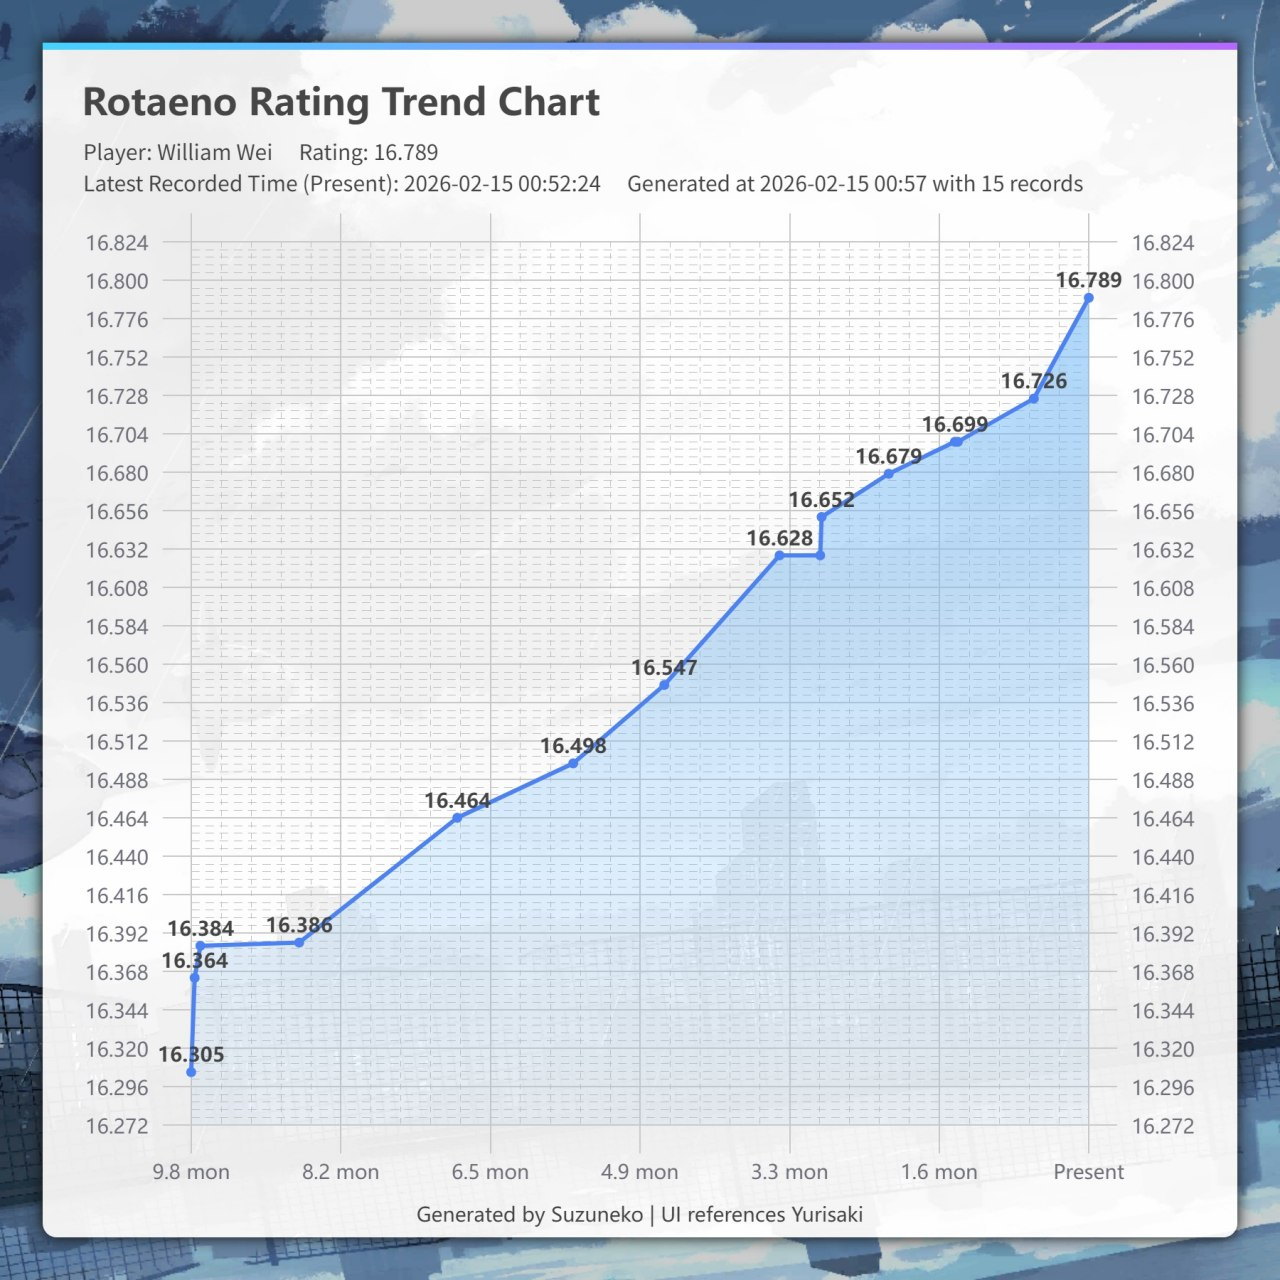
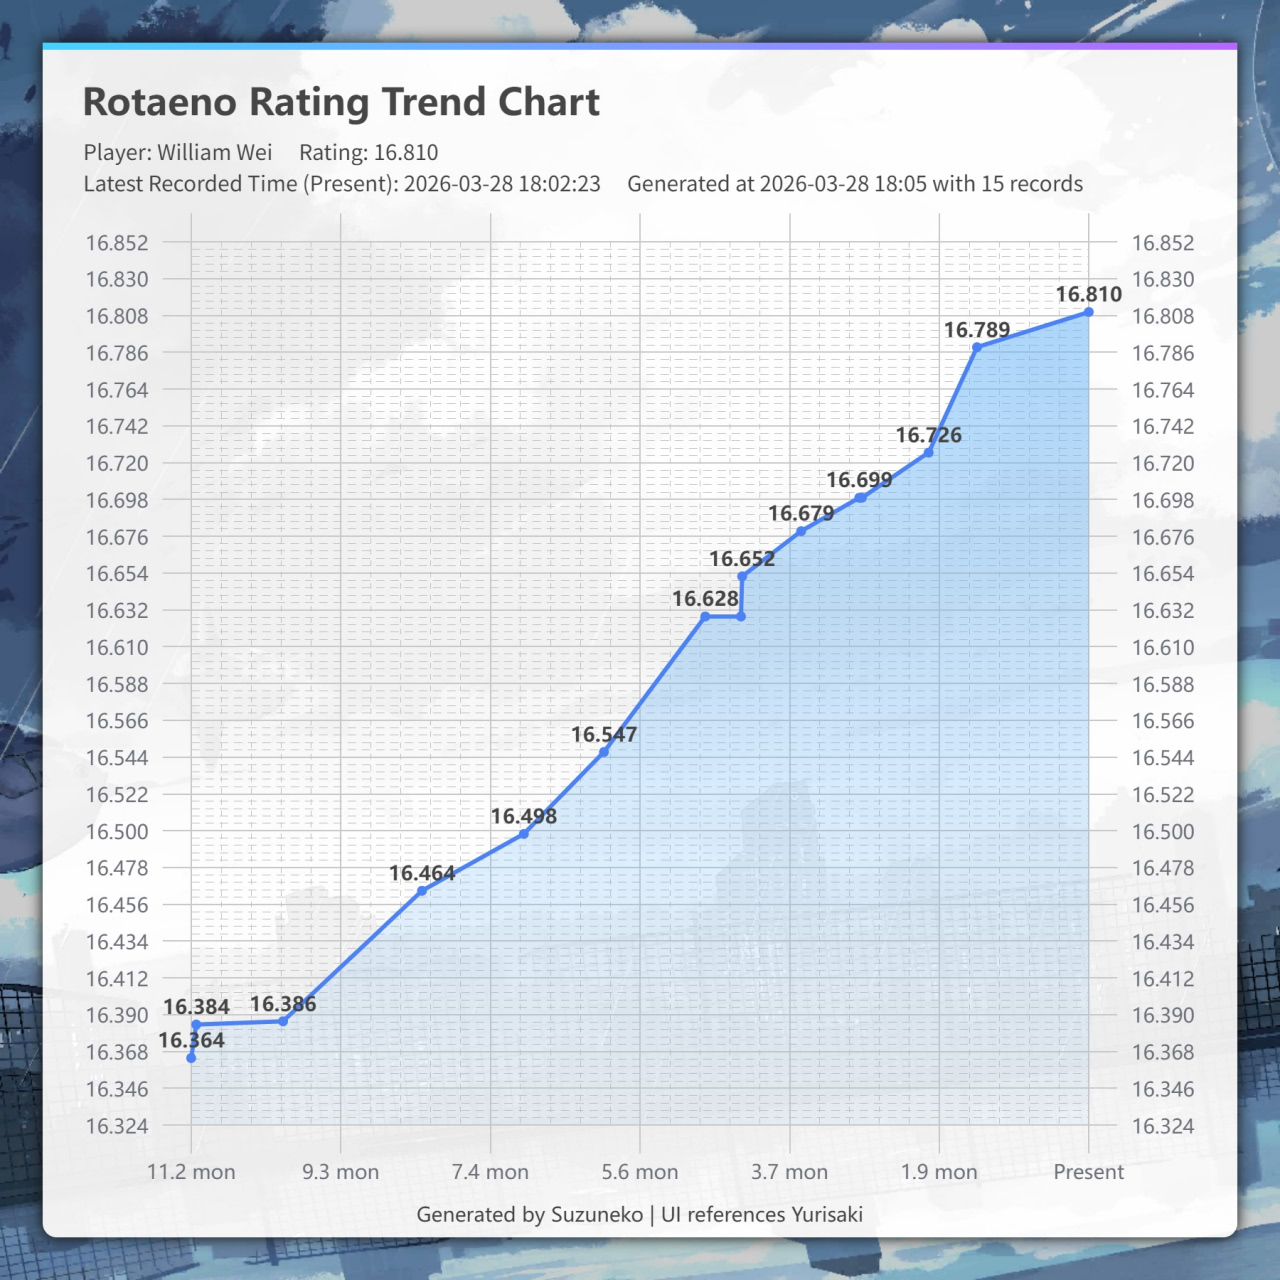
Add 2 friends

diff --git a/content/page/links/index.md b/content/page/links/index.md
@@ -59,6 +59,14 @@ links:
     description: 一个不喜欢随波逐流的高中生的blog
     website: https://blog.chihuo2104.dev/
     image: https://1.gravatar.com/avatar/f1f32e9ad3e3b6a98e78bd02814021723c1daf602844875f1b08f01fa916e3b3
+  - title: io-wy Blog
+    description: The dreamer never existed.
+    website: https://io-wy.github.io/
+    image: https://io-wy.github.io/avatar.jpg
+  - title: Symb0x76 小站
+    description: 一点技术和小巧思 | 分享开发经验、踩坑经历和个人兴趣爱好
+    website: https://blog0x76.vercel.app/
+    image: https://blog0x76.vercel.app/images/avatar.jpg
 menu:
     main: 
         weight: 4

diff --git a/content/post/mug/index.md b/content/post/mug/index.md
@@ -3,7 +3,7 @@ title: 关于音游
 description: Let's 音游趴体！能和我一起玩吗？
 slug: mug
 image: image.webp
-date: 2026-03-12
+date: 2026-03-28
 categories:
     - 音游
 ---
